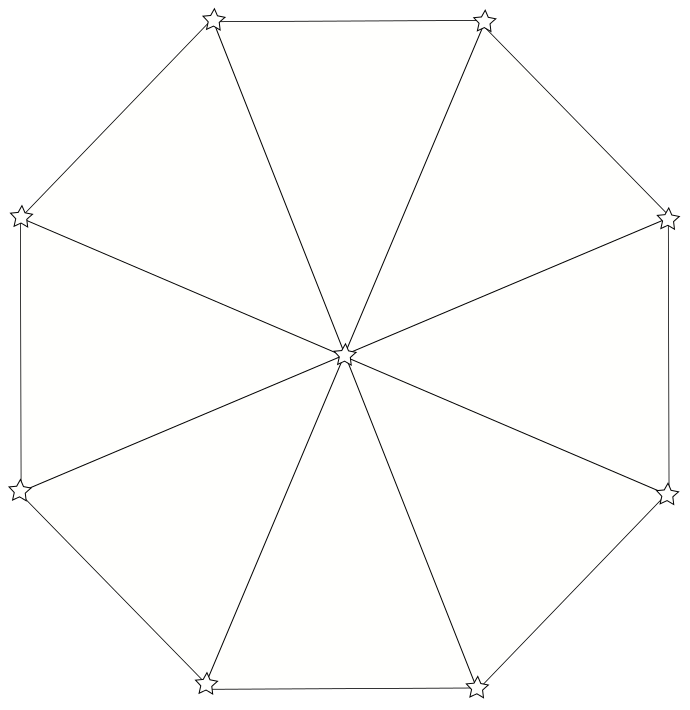
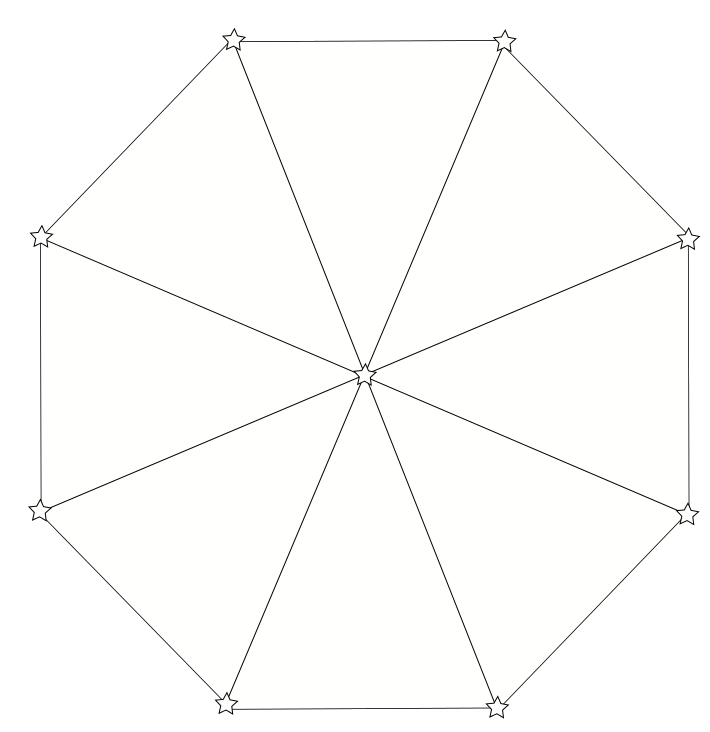
Added tests for winner

diff --git a/pystars/game.py b/pystars/game.py
@@ -11,9 +11,9 @@ package_directory = os.path.dirname(os.path.abspath(__file__))
 
 NUMKEYS = [K_0, K_1, K_2, K_3, K_4, K_5, K_6, K_7, K_8]
 
-HEIGHT = 800
-WIDTH = 690
-H_BGND = 710
+HEIGHT = 820
+WIDTH = 710
+H_BGND = 730
 H_MSG = 90
 
 TOKEN_SIZE = 40
@@ -24,66 +24,61 @@ BLACK = pygame.color.THECOLORS['black']
 
 COLORS = (BLUE, GREEN)
 
-COLOR_NAME = { BLUE:'blue', GREEN:'green' }
+COLOR_NAME = {BLUE: 'blue', GREEN: 'green'}
 
 parser = optparse.OptionParser()
 
-class Player(object):
 
+class Player(object):
     def __init__(self, color, name=None):
-        if not color in COLORS:
+        if color not in COLORS:
             raise ValueError("Invalid value for color. Use BLUE or GREEN")
         self.color = color
-        self.tokens = pygame.sprite.LayeredUpdates()
+        self.tokens = []
         if name:
             self.name = name
         else:
             self.name = COLOR_NAME[self.color]
 
     def add_token(self, token):
-        self.tokens.add(token)
+        self.tokens.append(token)
 
     def move(self, token, to_slot):
         token.pos = to_slot.pos
 
 
-class Token(pygame.sprite.Sprite):
-
-    radius = int(TOKEN_SIZE/2.0)
+class Token(pygame.Rect):
+    radius = int(TOKEN_SIZE / 2.0)
     instances = []
 
     def __init__(self, screen, color, pos):
-        pygame.sprite.Sprite.__init__(self)
         if not isinstance(pos, pygame.Rect):
             raise TypeError("Invalid type for token position")
-        self.screen = screen
-        self.selected = False
-        self.pos = pos
+        pygame.Rect.__init__(self, pos)
         self.image = pygame.Surface((TOKEN_SIZE, TOKEN_SIZE))
         self.image.fill(WHITE)
+        self.screen = screen
         self.color = color
+        self.selected = False
         self.played = False
-        self.rect = pygame.draw.circle(self.screen, self.color,
-                                       (self.pos.left, self.pos.top), Token.radius, 0)
-        self.screen.blit(self.image, self)
+        self._draw()
         Token.instances.append(self)
 
     def on_click(self, event):
         if not self.selected:
             self.selected = True
-            for t in Token.instances:
-                if t is not self:
-                    t.selected = False
+        for t in Token.instances:
+            if t is not self:
+                t.selected = False
+        self.update()
 
     def _draw(self):
         if self.selected or self.played:
-            return pygame.draw.circle(self.screen, self.color,
-                                      (self.pos.left, self.pos.top),
-                                      self.radius, 0)
+            border = 0
         else:
-            return pygame.draw.circle(self.screen, self.color,
-                                      (self.pos.left, self.pos.top),
-                                      self.radius, 3)
+            border = 3
+        pygame.draw.circle(self.image, self.color, (self.radius, self.radius), self.radius, border)
+        self.screen.blit(self.image, self)
 
     def draw(self):
         return self._draw()
@@ -94,14 +89,16 @@ class Token(pygame.sprite.Sprite):
     def move(self, to_slot):
         """Move the peg to a new position.
         """
-        self.pos = to_slot
+        self.top, self.left = to_slot.top, to_slot.left
 
 
 class Slot(pygame.Rect):
-
-    def __init__(self, centerx, centery, height, width, token=None):
-        pygame.Rect.__init__(self, (centerx, centery), (height, width))
+    def __init__(self, rect, token=None, name=None):
+        pygame.Rect.__init__(self, rect)
         self.token = token
+        if not name:
+            name = "{0:s}".format((self.left, self.top), )
+        self.name = name
 
     def on_click(self, token):
         token.move(self)
@@ -109,7 +106,6 @@ class Slot(pygame.Rect):
 
 
 class Game(object):
-
     stars = dict(center=(345, 355),
                  top_left=(20, 217),
                  top_right=(213, 19),
@@ -120,7 +116,6 @@ class Game(object):
                  left_lower=(205, 681),
                  left_upper=(18, 491),
                  )
-
 
     winners = [(stars['top_left'], stars['center'], stars['bottom_right']),
                (stars['top_right'], stars['center'], stars['bottom_left']),
@@ -145,27 +140,37 @@ class Game(object):
         self.msg = self.messages.display
         self.screen.blit(self.messages, (0, self.messages.top))
         self.running = True
-        self.players = { BLUE:Player(BLUE), GREEN:Player(GREEN) }
+        self.players = {BLUE: Player(BLUE), GREEN: Player(GREEN)}
         self.player = self.players[BLUE]
+        self.winner = None
         self._setup_tokens()
-        self.tokens = pygame.sprite.LayeredUpdates()
+        self.tokens = []
         for p in self.players:
             for t in self.players[p].tokens:
-                self.tokens.add(t)
+                self.tokens.append(t)
         self.active_token = None
         self.slots = []
         self._setup_slots()
 
     def _setup_tokens(self):
-        for p in self.players:
-            for t in Game.HOME[p]:
-                self.players[p].add_token(Token(self.screen, p,
-                                                pygame.Rect(t,(40,40))))
+        for color in self.players:
+            for t in Game.HOME[color]:
+                tkn = Token(self.screen, color, pygame.Rect(t, (TOKEN_SIZE, TOKEN_SIZE)))
+                self.players[color].add_token(tkn)
 
     def _setup_slots(self):
         for s in Game.stars.itervalues():
-            slot = Slot(s[0], s[1], TOKEN_SIZE, TOKEN_SIZE)
+            rect = pygame.Rect((s[0], s[1]), (TOKEN_SIZE, TOKEN_SIZE))
+            slot = Slot(rect)
             self.slots.append(slot)
+
+    def check_winner(self):
+        for color in self.players:
+            alltokens = [(i.left, i.top) for i in self.players[color].tokens]
+            for trio in self.winners:
+                if set(trio) == set(alltokens):
+                    return color
+        return None
 
     def on_key_down(self, event):
         """Handle keyboard events"""
@@ -189,17 +194,12 @@ class Game(object):
         """Handle mouse events"""
         print "Click: %s" % (event.pos,)
         # First deal with selecting a token
-        hits = self.tokens.get_sprites_at(event.pos)
-        if len(hits) == 1:
-            if hits[0].color == self.player.color:
-                hits[0].on_click(event)
-                self.active_token = hits[0]
+        for i in self.player.tokens:
+            if i.collidepoint(event.pos):
+                i.on_click(event)
+                self.active_token = i
                 self.msg("Token selected. Click on a star to place your token.")
-            else:
-                self.msg("Wrong token")
-            return
-        if len(hits) > 1:
-            self.msg("More than one hit")
+                return
         if not self.active_token:
             self.msg("Please select a token first")
             return
@@ -213,8 +213,12 @@ class Game(object):
                 self.active_token.played = True
                 self.active_token.selected = False
                 self.active_token = None
+                self.winner = self.check_winner()
+                if self.winner is not None:
+                    self.msg("%s WINS! Press r to restart or q to quit." % (self.player.name,))
+                    return
                 if self.player.color is BLUE:
-                    self.player  = self.players[GREEN]
+                    self.player = self.players[GREEN]
                 else:
                     self.player = self.players[BLUE]
                 self.msg(r"Token moved. %s's TURN" % (self.player.name.upper(),))
@@ -223,6 +227,7 @@ class Game(object):
 
     def on_quit(self):
         self.running = False
+
 
 def main(*args, **kwargs):
     """Start the main loop
@@ -233,8 +238,6 @@ def main(*args, **kwargs):
     """
     pygame.init()
     game = Game()
-    screen = game.screen
-    screen.blit(game.background, (0, 0))
     while game.running:
         for event in pygame.event.get():
             if event.type == KEYDOWN:
@@ -243,10 +246,10 @@ def main(*args, **kwargs):
                 game.on_mousebutton_down(event)
             if event.type == QUIT:
                 game.on_quit()
-        game.tokens.clear(game.screen, game.background)
-        game.tokens.draw(game.screen)
-        game.tokens.update()
         game.screen.blit(game.messages, (0, game.messages.top))
+        game.screen.blit(game.background, (0, 0))
+        for t in game.tokens:
+            t.update()
         pygame.display.flip()
         pygame.time.delay(100)
 

diff --git a/tests/test_pystars.py b/tests/test_pystars.py
@@ -39,7 +39,7 @@ class TestPlayer(unittest.TestCase):
 
     def test_add_token(self):
         self.players[BLUE].add_token(self.token)
-        self.assertEqual(self.players[BLUE].tokens.get_sprite(0).color, BLUE)
+        self.assertEqual(self.players[BLUE].tokens[0].color, BLUE)
         self.assertEqual(len(self.players[BLUE].tokens), 1)
 
 class TestGame(unittest.TestCase):
@@ -47,8 +47,41 @@ class TestGame(unittest.TestCase):
     def setUp(self):
         self.game = Game()
 
+    def _get_slot_by_name(self, name):
+        retval = None
+        for s in self.game.slots:
+            try:
+                if s.name == name:
+                    retval = s
+            except KeyError:
+                retval = None
+        return retval
+
     def test_game_running(self):
         assert self.game.running
+
+    def test_no_winner(self):
+        self.assertIsNone(self.game.winner)
+
+    def test_winner(self):
+
+        class Event(object):
+            pass
+
+        slot_list = ['top_right', 'right_upper', 'center', 'right_lower', 'bottom_left']
+
+        event = Event()
+        for idx in range(3):
+            for color in [BLUE, GREEN]:
+                event.pos = self.game.HOME[color][idx]
+                self.game.on_mousebutton_down(event)
+                try:
+                    event.pos = self.game.stars[slot_list.pop()]
+                except IndexError:
+                    break
+                self.game.on_mousebutton_down(event)
+                self.assertEqual(self.game.players[color].tokens[idx].played, True)
+        self.assertIsNotNone(self.game.winner)
 
 if __name__ == '__main__':
     unittest.main()
